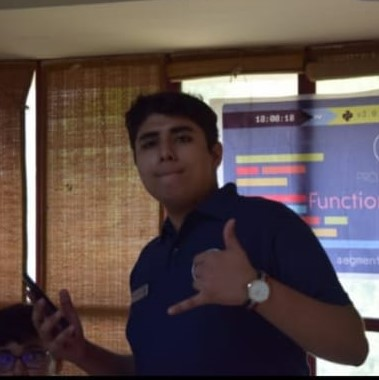
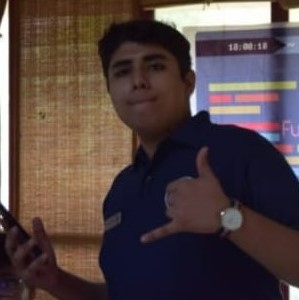
Updated typo and photos in team page

diff --git a/src/components/data/teamData.js b/src/components/data/teamData.js
@@ -6,7 +6,7 @@ import aniket_kumar from "../../images/team/aniket_kumar.jpeg";
 import arnav_whig from "../../images/team/arnav_whig.jpeg";
 import aryav_saigal from "../../images/team/aryav_saigal.jpeg";
 import chirag_sehgal from "../../images/team/chirag_sehgal.jpeg";
-import dhimant_nath from "../../images/team/dhimant_nath.jpeg";
+import dhimanth_nath from "../../images/team/dhimanth_nath.jpeg";
 import gauri_tandon from "../../images/team/gauri_tandon.jpeg";
 import gayatri from "../../images/team/gayatri.jpeg";
 import inika_harikrishnan from "../../images/team/inika_harikrishnan.jpeg";
@@ -64,9 +64,9 @@ export default function teamData() {
         quote: 'ayo can my quote be "I cant think of a quote"',
       },
       {
-        name: "Dhimant Nath",
+        name: "Dhimanth Nath",
         hod: "PC Gaming",
-        img_src: dhimant_nath,
+        img_src: dhimanth_nath,
         quote: "Anime is overrated and mid",
       },
       {
